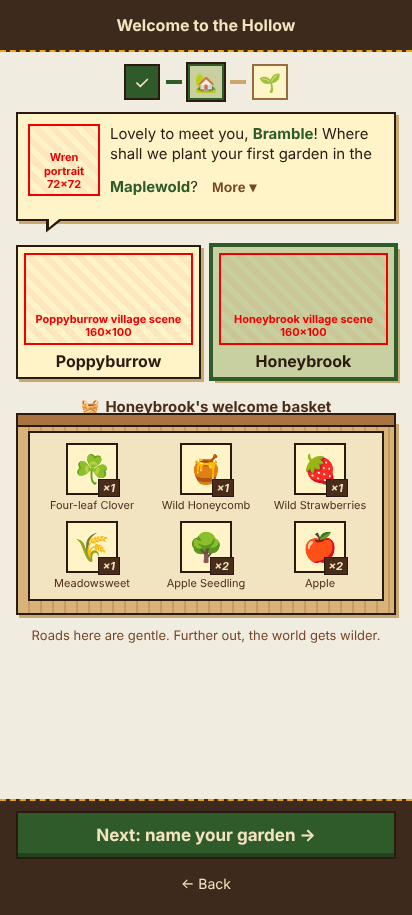
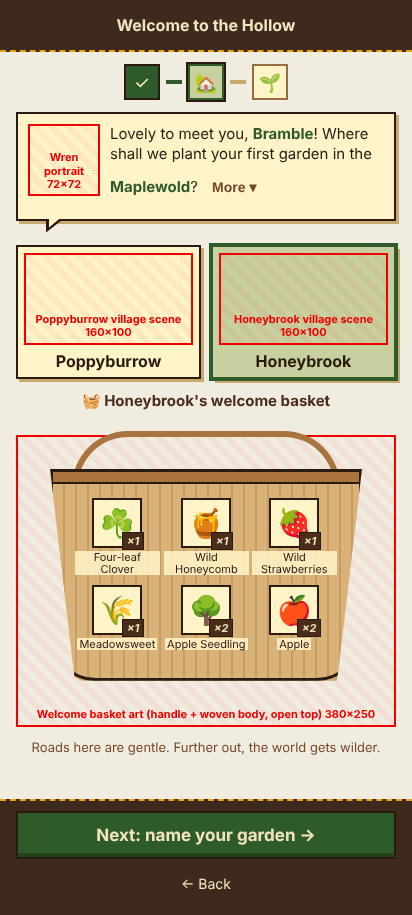
Welcome mockups: basket-shaped welcome basket with art placeholder
Claude-Session: https://claude.ai/code/session_01PZZqg64aEdjtxjrzTcsweq

Changed region(s): [[0.0291, 0.4284, 0.9903, 0.8262]]

diff --git a/docs/welcome-mockups/index.html b/docs/welcome-mockups/index.html
@@ -52,17 +52,19 @@ body.only .frame.show{display:flex}
 .slot{width:36px;height:36px;background:var(--surface-2);border:2px solid var(--line-2);display:grid;place-items:center;font-size:20px;position:relative}
 .plus{font-size:12px;font-weight:700;color:var(--muted);padding:0 4px}
 .hint{font-size:13px;color:var(--muted);margin:0}
-/* welcome basket */
-.basket{width:100%;position:relative;margin-top:2px}
-.basket .lid{display:flex;align-items:center;justify-content:center;gap:6px;font-weight:700;font-size:15px;color:var(--ink-2);min-height:28px}
-.basket .weave{border:2px solid var(--ol);border-top:0;background:repeating-linear-gradient(90deg,#d9b27a 0 10px,#c79c60 10px 12px),#d9b27a;box-shadow:var(--drop) 3px 3px 0;padding:10px 10px 12px;position:relative}
-.basket .weave:before{content:"";position:absolute;left:-2px;right:-2px;top:-8px;height:10px;background:#a9743f;border:2px solid var(--ol)}
-.basket .inner{background:var(--surface-2);border:2px solid var(--ol);padding:10px 8px;display:grid;grid-template-columns:repeat(3,1fr);gap:10px 6px;min-height:150px;align-content:start}
-.basket .item{display:flex;flex-direction:column;align-items:center;gap:4px;animation:pop .25s ease-out both}
-.basket .item .slot{width:52px;height:52px;font-size:28px;background:var(--surface);border-color:var(--ol)}
+/* welcome basket: art placeholder (handle + woven body) with items inside */
+.basket{width:100%;position:relative;padding-top:44px}
+.basket .lid{position:absolute;top:0;left:0;right:0;text-align:center;font-weight:700;font-size:15px;color:var(--ink-2);z-index:2}
+.basket .stagebk{position:relative;min-height:250px;padding:34px 34px 46px}
+.basket .art{position:absolute;inset:0;border:2px solid #e00;background:repeating-linear-gradient(45deg,rgba(238,0,0,.05) 0 6px,transparent 6px 12px);clip-path:none;display:flex;align-items:flex-end;justify-content:center;font-size:11px;font-weight:700;color:#e00;padding:4px;text-align:center;z-index:0}
+.basket .handle{position:absolute;left:56px;right:56px;top:-4px;height:56px;border:6px solid #a9743f;border-bottom:0;border-radius:60px 60px 0 0;z-index:0;outline:0}
+.basket .body{position:relative;z-index:1;margin:0 auto;width:100%;background:repeating-linear-gradient(90deg,#d9b27a 0 10px,#c79c60 10px 12px),#d9b27a;border:3px solid var(--ol);border-radius:0 0 46px 46px;clip-path:polygon(0 0,100% 0,92% 100%,8% 100%);padding:12px 22px 28px;box-shadow:var(--drop) 3px 3px 0}
+.basket .body:before{content:"";position:absolute;left:0;right:0;top:0;height:10px;background:#a9743f;border-bottom:2px solid var(--ol)}
+.basket .inner{position:relative;display:grid;grid-template-columns:repeat(3,1fr);gap:10px 4px;padding-top:14px;min-height:150px;align-content:start}
+.basket .item{display:flex;flex-direction:column;align-items:center;gap:3px;animation:pop .25s ease-out both}
+.basket .item .slot{width:50px;height:50px;font-size:28px;background:var(--surface);border-color:var(--ol)}
 .basket .item .badge{font-size:11px;line-height:16px;padding:0 4px}
-.basket .item small{font-size:11px;line-height:1.1;color:var(--ink-2);text-align:center}
-.basket .art{position:absolute;right:0;top:-2px;width:84px;height:30px;font-size:9px;padding:1px;align-items:center;background:var(--bg)}
+.basket .item small{font-size:11px;line-height:1.1;color:var(--ink);text-align:center;background:rgba(255,243,200,.85);padding:0 2px}
 @keyframes pop{from{transform:translateY(-14px) scale(.7);opacity:0}to{transform:none;opacity:1}}
 @media (prefers-reduced-motion:reduce){.basket .item{animation:none}}
 /* pack tiles */
@@ -140,8 +142,12 @@ body.only .frame.show{display:flex}
       </div>
     </div>
     <div class="basket" aria-live="polite">
-      <div class="lid"><span>🧺</span><span id="bk-title">Poppyburrow's welcome basket</span></div>
-      <div class="weave"><div class="inner" id="bk"></div></div>
+      <div class="lid"><span>🧺</span> <span id="bk-title">Poppyburrow's welcome basket</span></div>
+      <div class="stagebk">
+        <div class="art">Welcome basket art (handle + woven body, open top) 380x250</div>
+        <div class="handle"></div>
+        <div class="body"><div class="inner" id="bk"></div></div>
+      </div>
     </div>
     <p class="hint">Roads here are gentle. Further out, the world gets wilder.</p>
   </div>

diff --git a/docs/welcome-mockups/PROPOSAL.md b/docs/welcome-mockups/PROPOSAL.md
@@ -44,4 +44,4 @@ Future villages need one 160x100 scene each (fallback: landscape emoji on a flat
 ## Update: Wren bubble + welcome basket
 - Wren portrait (72x72) now sits inside the speech-bubble box, tail pointing down-left. One shared component, all 3 steps.
 - Step 2: village cards lose their item icons. A woven "welcome basket" sits below the cards; it holds the selected village's items as big slots with x-N badges and names. Tapping a card swaps the contents (items drop in with a short staggered pop, off under prefers-reduced-motion). `aria-live=polite` announces the change.
-- Extra art: none required (basket is CSS weave; optional pixel basket rim later). Mockup states: `index.html#s2` (Poppyburrow), `#s2h` (Honeybrook); screenshots step2.png, step2-honeybrook.png.
+- Basket: red-outline art placeholder "handle + woven body, open top" 380x250 behind a CSS-drawn stand-in (arched handle, tapered woven body). Items sit inside the open top. Final pixel art drops in as the background; item grid stays 3 columns.
